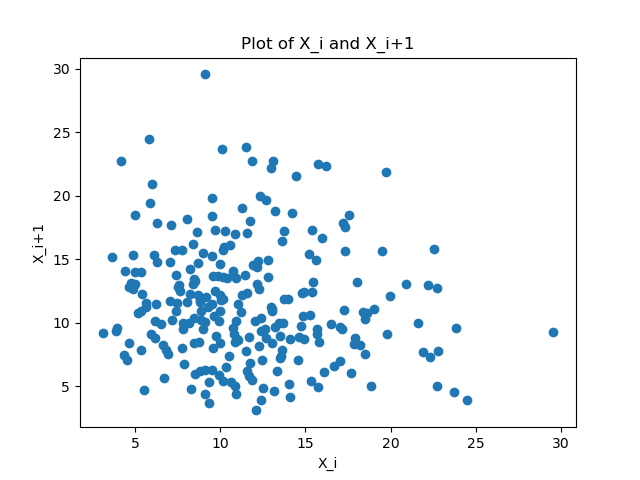
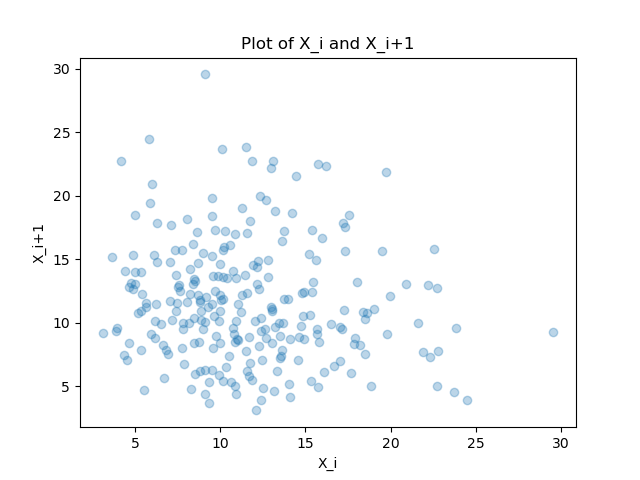
transparency in graph

diff --git a/scattle_diagram.py b/scattle_diagram.py
@@ -7,7 +7,7 @@ def plot_points(data):
     # Read data from .dat file
     with open(data, 'r') as file:
         lines = file.readlines()
-    [5.66, 11.55, ...]
+
     # Extract X_i values
     for i in range(len(lines) - 1):
         x_values.append(float(lines[i]))
@@ -15,8 +15,7 @@ def plot_points(data):
 
     
     # Plot the graph
-    plt.scatter(x_values, y_values)
-    plt.plot(x_values, y_values, "*")
+    plt.scatter(x_values, y_values, alpha=0.3)
     plt.xlabel('X_i')
     plt.ylabel('X_i+1')
     plt.title('Plot of X_i and X_i+1')
